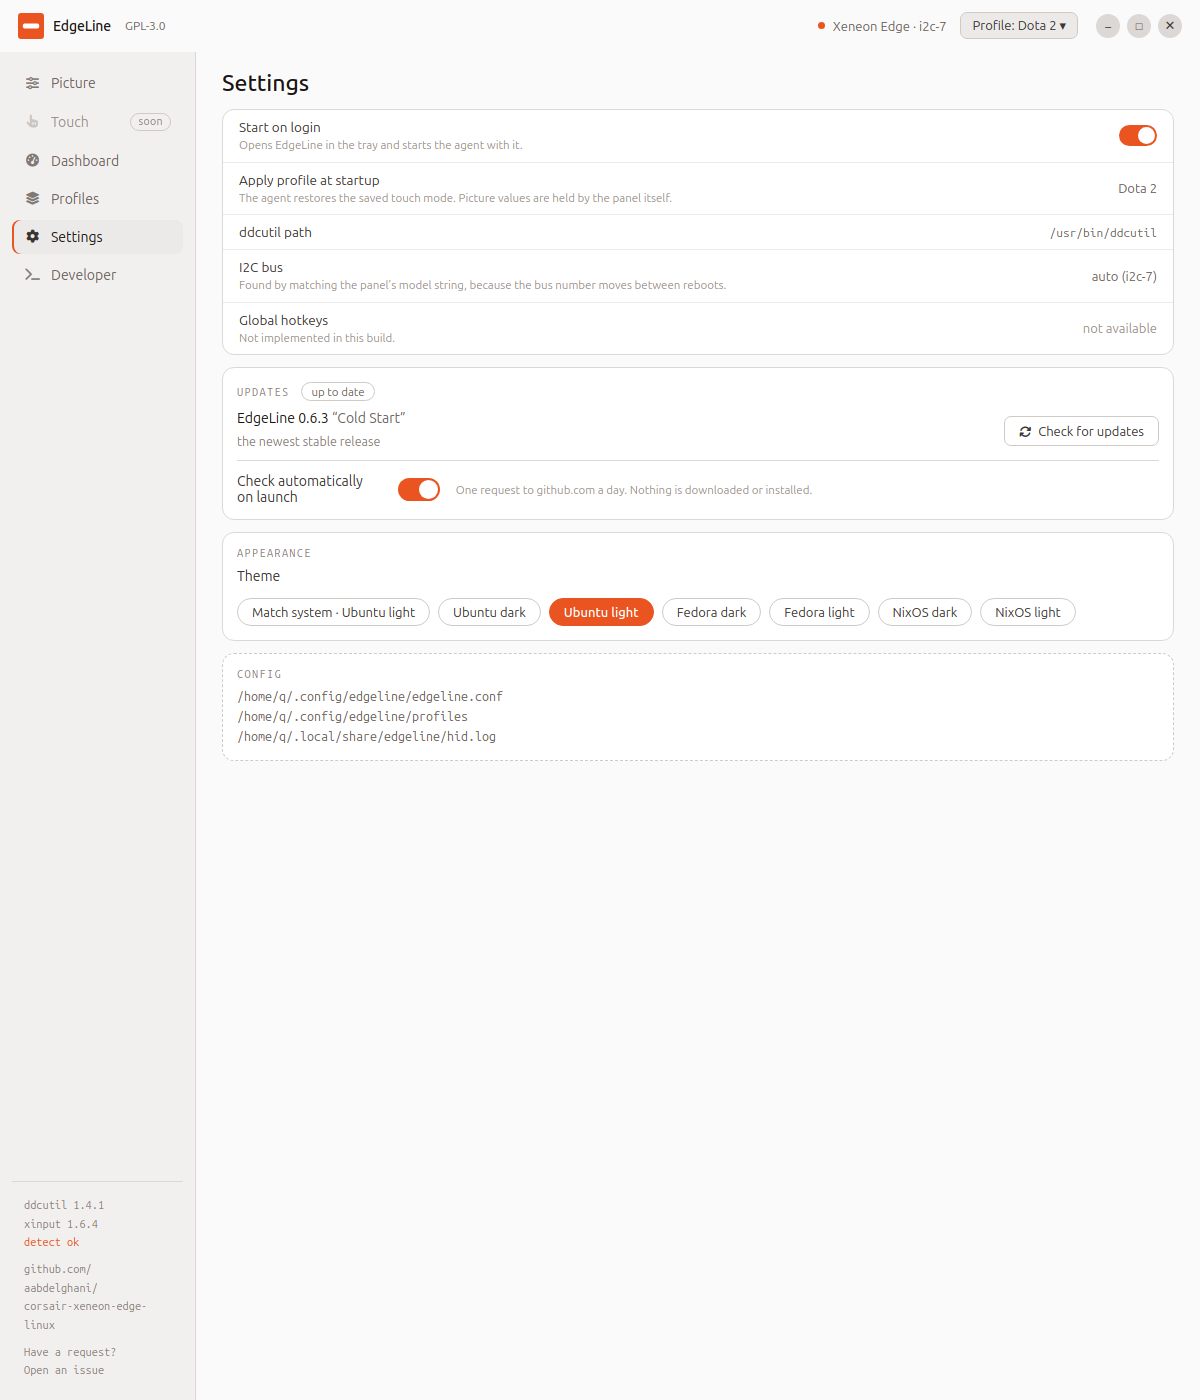
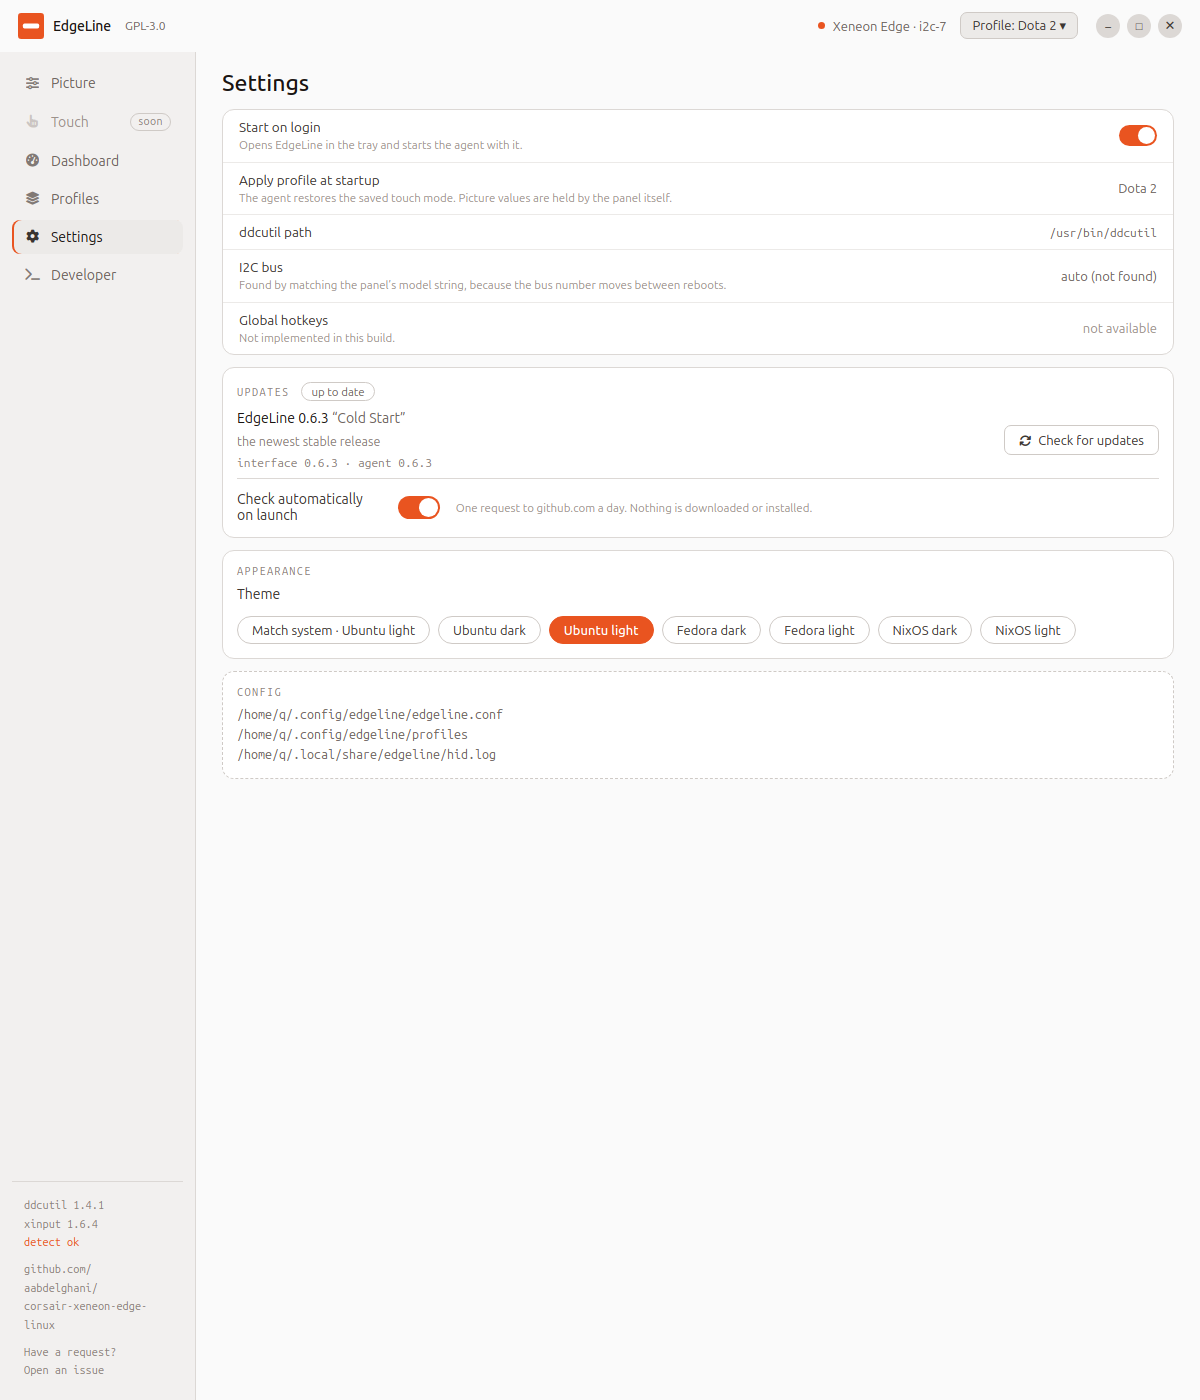
Drop a limitation that is no longer one, refresh the Settings shot
"What this does not do" still listed the now playing and notification
tiles as needing an MPRIS reader and a D-Bus monitor. Both shipped in
0.5.0 and are described further up the same README.

The Settings screenshot is recaptured so it shows the interface and
agent version row added in #6.

Changed region(s): [[0.185, 0.3071, 0.8942, 0.5529], [0.8325, 0.3071, 0.9558, 0.3379], [0.8942, 0.1843, 0.9558, 0.215]]

diff --git a/README.md b/README.md
@@ -271,8 +271,6 @@ Kept here rather than left for you to discover:
   story first.
 - **Importing from iCUE.** The export format is undocumented and nobody has
   contributed a sample to work from. If you have one, open an issue.
-- **Now playing and notification tiles.** They need an MPRIS reader and a D-Bus
-  notification monitor respectively.
 - **A D-Bus interface.** Designed as `dev.edgeline.Ctl1`, not implemented. The
   local socket above is the working equivalent.
 - **Flatpak, rpm and AUR packages.** Only the `.deb` and the AppImage are built.
